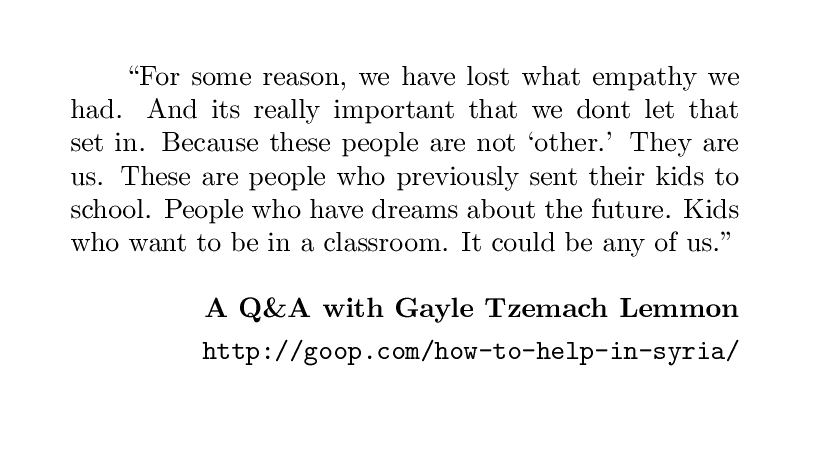
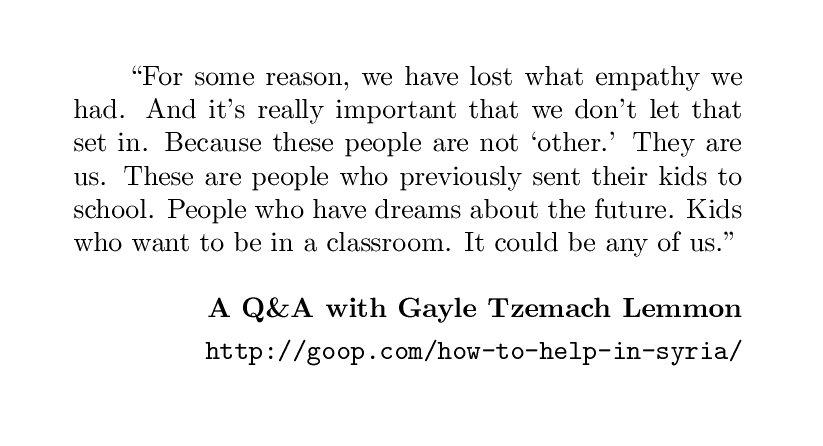
syria Q&A at goop

diff --git a/journal-20170402-2.tex b/journal-20170402-2.tex
@@ -1,7 +1,7 @@
 \input preamble-png
 
-``For some reason, we have lost what empathy we had. And it’s really
-important that we don’t let that set in.  Because these people are not
+``For some reason, we have lost what empathy we had.  And it's really
+important that we don't let that set in.  Because these people are not
 `other.'  They are us.  These are people who previously sent their
 kids to school.  People who have dreams about the future.  Kids who
 want to be in a classroom.  It could be any of us.''
